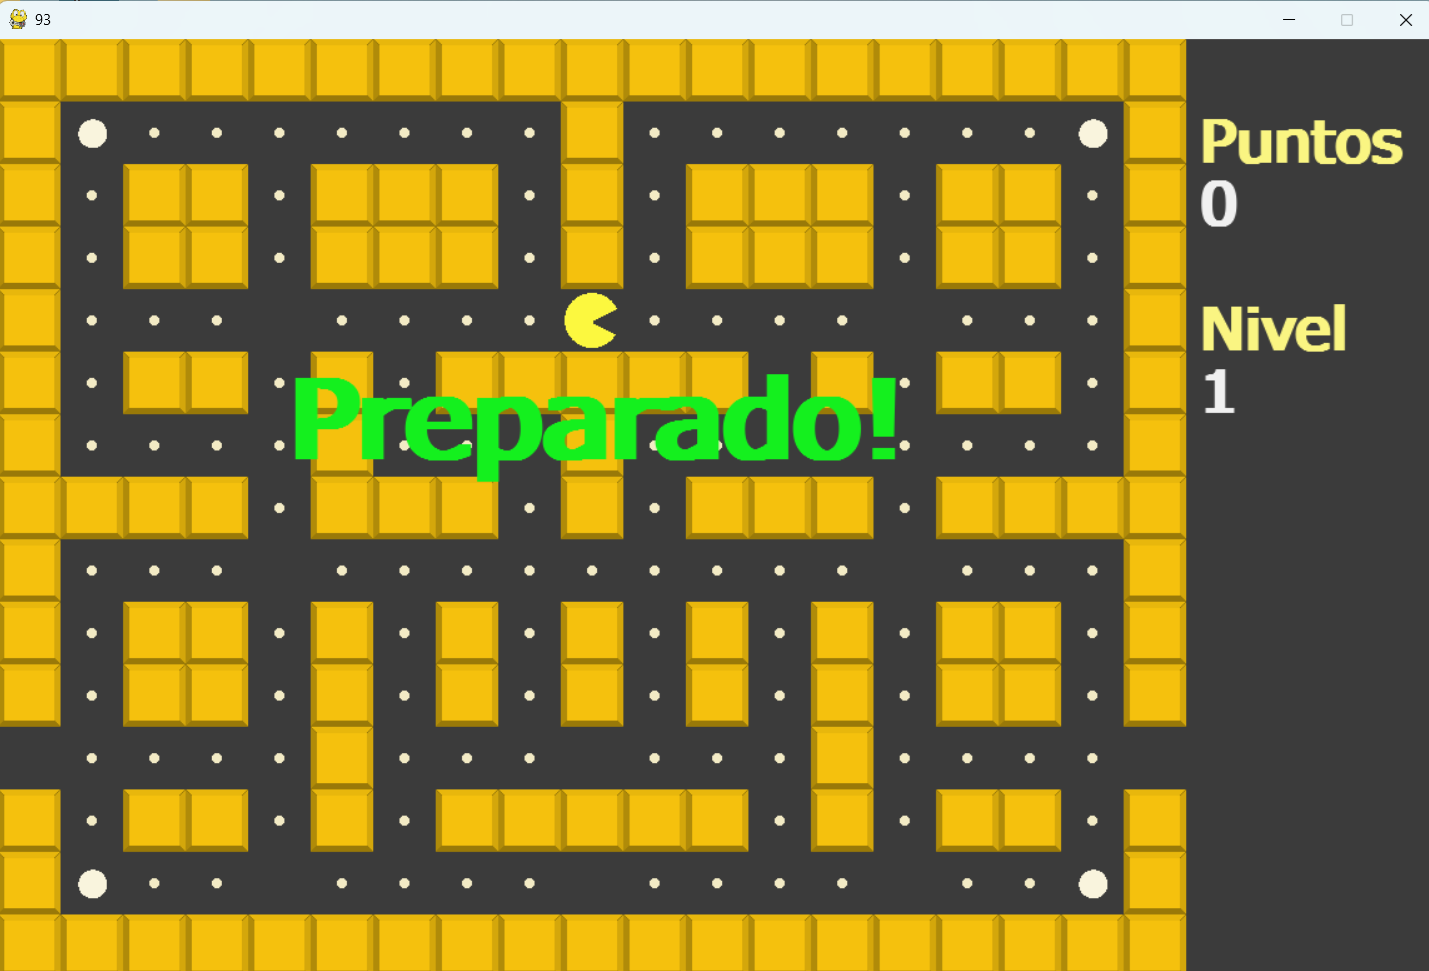
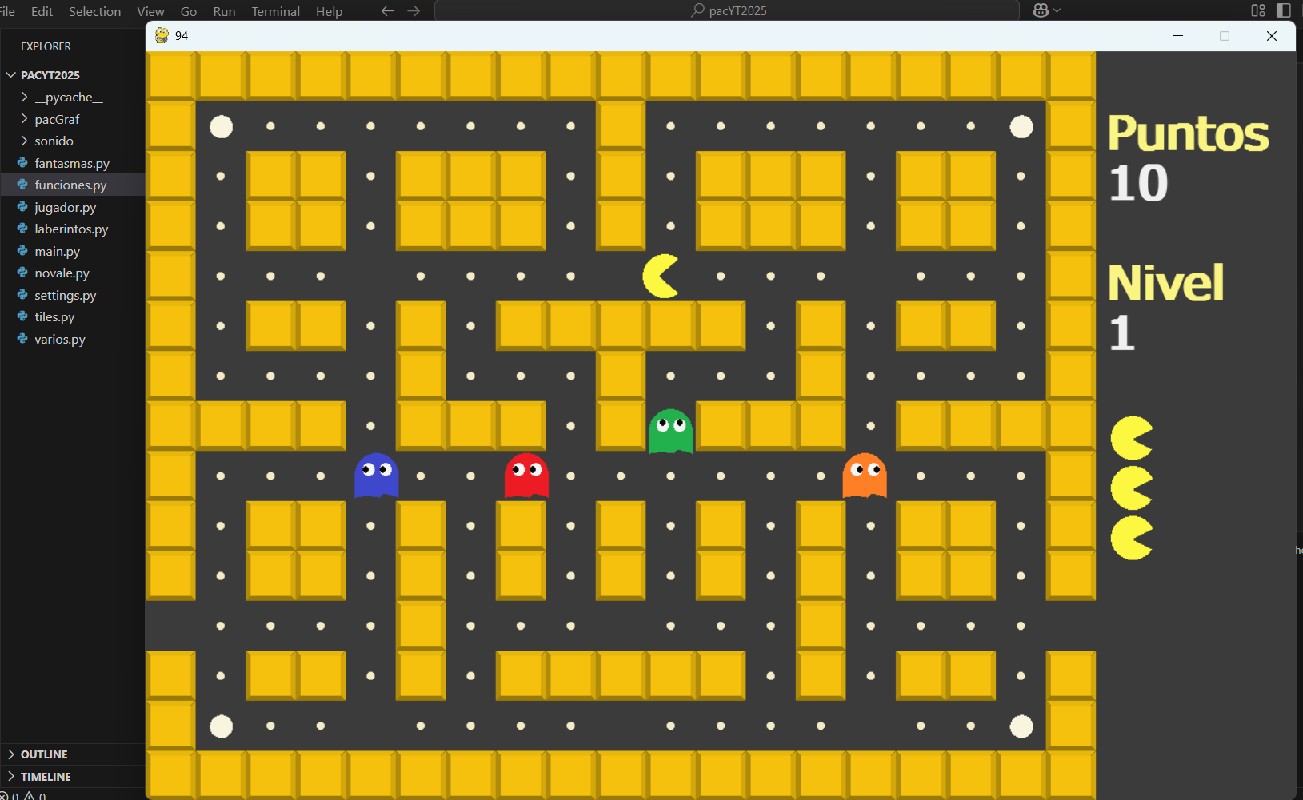
agregado show-bonus y mecanica temporizador fantasmas-azules

diff --git a/funciones.py b/funciones.py
@@ -47,7 +47,6 @@ def instanciar_fantasmas(self):
 
 def instanciar_fantasma(self, coorX, coorY, i, direc, azul, ojos):
     fantasma = Fantasma(self, coorX, coorY, i, direc, azul, ojos)
-    #self.lista_sprites_adibujar.add(fantasma)
     self.listas_sprites["fantasmas"].add(fantasma)
 
 def instanciar_fruta(self):
@@ -62,11 +61,21 @@ def instanciar_fruta(self):
         self.listas_sprites["all_sprites"].add(newFruta)
         self.listas_sprites["items"].add(newFruta)
 
+def check_showbonus_kill(self):
+    if len(self.listas_sprites["items"]) != 0 or not self.estado_juego["en_juego"]:
+        return
+    
+    calculo = pygame.time.get_ticks()
+    if calculo - self.ultimo_update["show-bonus-fruta"] > self.CO.DURACION_SHOW_BONUS_FRUTA:
+        self.ultimo_update["show-bonus-fruta"] = calculo
+        #print("3sg")
+        eliminar_elemento_de_lista(self, "textos", "show-bonus-fruta")
+
 def instanciar_textos(self):
     MARGEN = 9
 
     self.instanciar_texto(self.CO.TXT_PREPARADO, 90, (self.CO.RESOLUCION[0] - self.CO.ZONA_SCORES) // 2,
-        300, self.COL.VERDE_FONDO, fondo=self.COL.BG_GRIS_OSCURO, negrita=True)
+        300, self.COL.VERDE_FONDO, fondo=self.COL.BG_GRIS_OSCURO, negrita=True, tipo="txt-preparado")
     
     self.instanciar_texto("Puntos", 48, self.CO.RESOLUCION[0] - self.CO.ZONA_SCORES + MARGEN,
         self.CO.TY, self.COL.AMARILLENTO, negrita=True, centrado=False)
@@ -79,8 +88,9 @@ def instanciar_textos(self):
 
 def updates_segun_estado(self):
     """Updates condicionales (presentacion/preparado/en_juego...)"""
-    #self.checkTemporizadorAzules()
-    #self.checkNivelSuperado()
+
+    check_temporizador_azules(self)
+    checkNivelSuperado(self)
     self.instanciar_fruta_periodicamente()
 
     if self.estado_juego["menu_presentacion"]:
@@ -93,10 +103,7 @@ def updates_segun_estado(self):
             self.resetear_estados_juego()
             self.estado_juego["preparado"] = False
             self.estado_juego["en_juego"] = True
-            for sprite in self.listas_sprites["textos"]:
-                if isinstance(sprite, Textos) and sprite.texto == self.CO.TXT_PREPARADO:
-                    self.listas_sprites["textos"].remove(sprite)
-                    break
+            eliminar_elemento_de_lista(self, "textos", "txt-preparado")
     
     else:
         self.listas_sprites["all_sprites"].update()
@@ -105,6 +112,22 @@ def updates_segun_estado(self):
         self.listas_sprites["textos"].update()
     
     #self.checkTransicion_gameOverRejugar()
+
+def check_temporizador_azules(self):
+    calculo = pygame.time.get_ticks()
+    if self.temporizadorAzules and calculo - self.ultimo_update["azules"] > self.CO.DURACION_AZULES[self.nivel]:
+        self.ultimo_update["azules"] = calculo
+        print("tiempo-azules-agotado")
+        self.temporizadorAzules = False
+
+        for fantasma in self.listas_sprites["fantasmas"]:
+            fantasma.kill()
+            x, y = int(fantasma.rect.x / self.CO.TX), int(fantasma.rect.y / self.CO.TY)
+            self.instanciar_fantasma(x, y, fantasma.id_fantasma, fantasma.direccion, azul=False, ojos=False)
+
+def checkNivelSuperado(self):
+    if len(self.listas_sprites["puntitos"]) <= 0:
+        print("nivel superado")
 
 def draw_listas_sprites(self):
     """Renderizar las listas-sprites"""
@@ -116,9 +139,6 @@ def draw_listas_sprites(self):
     pygame.draw.rect(self.pantalla, self.COL.GRIS_FONDO, 
         (self.CO.COLUMNAS * self.CO.TX, 11 * self.CO.TY, self.CO.TX, self.CO.TY))
     
-    #self.renderizar_vidasMarcador()
-    
-    #self.listas_sprites["bonus_come_fantasmas"].draw(self.pantalla)
     self.listas_sprites["textos"].draw(self.pantalla)
 
 def eventos_comenzar_quit_etc(self):
@@ -140,10 +160,16 @@ def eventos_comenzar_quit_etc(self):
                 self.estado_juego["en_juego"] = True
                 self.ultimo_update["preparado"] = pygame.time.get_ticks()
                 self.sonidos.reproducir("inicio_nivel")
-                # Comenzar partida (Pulsando ENTER) *********************************
+                # ************** Comenzar partida (Pulsando ENTER) ***********************
                 self.new_game()
             
             if event.key == pygame.K_TAB:
                 for clave in self.estado_juego:
                     print(clave, self.estado_juego[clave])
+
+def eliminar_elemento_de_lista(self, lista, elemento):
+    for sprite in self.listas_sprites[lista]:
+        if isinstance(sprite, Textos) and sprite.tipo == elemento:
+            self.listas_sprites["textos"].remove(sprite)
+            break
 

diff --git a/fantasmas.py b/fantasmas.py
@@ -61,13 +61,17 @@ class Fantasma(pygame.sprite.Sprite):
     def generar_direcciones(self):
         """Generar las direcciones y configuraciones."""
 
+        # Animacion-base (cuando estan azules/ojos hay menos graficos):
         anim_base = [0, 2, 4, 6] if self.azul or self.ojos else [0, 8, 16, 24]
+        
+        # Cuando estan azules/ojos hay menos graficos (no importa el color), entonces multiplicar=0
+        multiplicar = 0 if self.azul or self.ojos else 2
 
         return {
-            Direccion.RIGHT.value: [1, 0, anim_base[0] + self.id_fantasma * 2, "updole"],
-            Direccion.LEFT.value: [-1, 0, anim_base[1] + self.id_fantasma * 2, "updori"],
-            Direccion.UP.value: [0, -1, anim_base[2] + self.id_fantasma * 2, "riledo"],
-            Direccion.DOWN.value: [0, 1, anim_base[3] + self.id_fantasma * 2, "rileup"]
+            Direccion.RIGHT.value: [1, 0, anim_base[0] + self.id_fantasma * multiplicar, "updole"],
+            Direccion.LEFT.value: [-1, 0, anim_base[1] + self.id_fantasma * multiplicar, "updori"],
+            Direccion.UP.value: [0, -1, anim_base[2] + self.id_fantasma * multiplicar, "riledo"],
+            Direccion.DOWN.value: [0, 1, anim_base[3] + self.id_fantasma * multiplicar, "rileup"]
         }
 
     def procesar_puntos_clave(self, puntos_crudos):
@@ -78,9 +82,9 @@ class Fantasma(pygame.sprite.Sprite):
         """Cargar imágenes según el estado del fantasma."""
 
         if self.ojos:
-            return [self.game.obtenerGrafico(f"fantasma{i + 51}.png", 1)[0] for i in range(8)]
+            return [self.game.obtener_grafico(f"fantasma{i + 51}.png", 1)[0] for i in range(8)]
         elif self.azul:
-            return [self.game.obtenerGrafico(f"fantasmaAzul{i + 1}.png", 1)[0] for i in range(8)]
+            return [self.game.obtener_grafico(f"fantasmaAzul{i + 1}.png", 1)[0] for i in range(8)]
         else:
             return [
                 self.game.obtener_grafico(f"fantasma{i + 1}.png", 1)[0]
@@ -158,8 +162,8 @@ class Fantasma(pygame.sprite.Sprite):
             base = self.dic_direccion[self.direccion][2]
             self.image = self.lista_imagenes[base + self.indice_animacion]
 
-            if self.azul:
-                self.image.set_alpha(100 if self.game.obtenerDuracionAzules() > 0 else 255)
+            """ if self.azul:
+                self.image.set_alpha(100 if self.game.obtenerDuracionAzules() > 0 else 255) """
 
     def verificar_colision_pacman(self):
         """Verificar colisiones con PacMan."""
@@ -187,7 +191,7 @@ class Fantasma(pygame.sprite.Sprite):
         coor_y = self.rect.y // self.game.CO.TY
         self.game.sumaPtosComeFantasmas *= 2
         self.game.puntos += self.game.sumaPtosComeFantasmas
-        self.game.instanciaPtosComeFantasmas(self.game.sumaPtosComeFantasmas, coor_x, coor_y)
+        #self.game.instanciaPtosComeFantasmas(self.game.sumaPtosComeFantasmas, coor_x, coor_y)
         self.game.instanciar_fantasma(coor_x, coor_y, self.id_fantasma, self.direccion, False, True)
 
     def manejar_colision_atrapa_pacman(self, impacto):

diff --git a/varios.py b/varios.py
@@ -79,15 +79,15 @@ class PuntosGordos(pygame.sprite.Sprite):
         # Colisión con PacMan
         if pygame.sprite.spritecollide(self, self.game.listas_sprites["pacman"], False) and not self.game.temporizadorAzules:
             self.kill()
-            #self.game.temporizadorAzules = True
-            #self.game.ultimoUpdate_azules = pygame.time.get_ticks()
-
-            """ for fantasma in self.game.lista_los4fantasmas:
-                x, y = int(fantasma.rect.x / self.game.TX), int(fantasma.rect.y / self.game.TY)
-                self.game.instanciar_fantasma(x, y, fantasma.idFantasma, fantasma.direccion, azul=True, ojos=False)
-                fantasma.kill() """
-
             self.game.sonidos.reproducir("eating_ghost")
+
+            self.game.temporizadorAzules = True
+            self.game.ultimo_update["azules"] = pygame.time.get_ticks()
+
+            for fantasma in self.game.listas_sprites["fantasmas"]:
+                fantasma.kill()
+                x, y = int(fantasma.rect.x / self.game.CO.TX), int(fantasma.rect.y / self.game.CO.TY)
+                self.game.instanciar_fantasma(x, y, fantasma.id_fantasma, fantasma.direccion, azul=True, ojos=False)
 
 class Textos(pygame.sprite.Sprite):
     def __init__(self, game, texto, size, x, y, color, fondo=None, negrita=False, centrado=True, tipo=None):
@@ -116,6 +116,8 @@ class Textos(pygame.sprite.Sprite):
             self.image = self.font.render(f'{self.game.puntos}', True, self.color, self.fondo)
         if self.tipo == "dinamico-nivel":
             self.image = self.font.render(f'{self.game.nivel}', True, self.color, self.fondo)
+        if self.tipo == "show-bonus-fruta":
+            self.rect.y -= 1
 
 class ItemFrutas(pygame.sprite.Sprite):
     X, Y = 9, 11
@@ -132,9 +134,13 @@ class ItemFrutas(pygame.sprite.Sprite):
     def update(self):
         if pygame.sprite.spritecollide(self, self.game.listas_sprites["pacman"], False):
             self.kill()
+            self.game.sonidos.reproducir("eating_cherry")
             puntos_fruta = (self.game.nivel * 10) ** 2
             self.game.puntos += puntos_fruta
             self.game.ultimo_update["item-fruta"] = pygame.time.get_ticks()
-            #self.game.instanciaPtosComeFantasmas(puntos_fruta, self.x, self.y)
-            self.game.sonidos.reproducir("eating_cherry")
+            
+            self.game.instanciar_texto(str(puntos_fruta), 48, self.rect.x, self.rect.y, self.game.COL.ROJO, centrado=False, 
+                negrita=True, tipo="show-bonus-fruta")
+            
+            self.game.ultimo_update["show-bonus-fruta"] = pygame.time.get_ticks()
 

diff --git a/main.py b/main.py
@@ -32,7 +32,8 @@ class Game:
         self.ultimo_update = {
             "azules": pygame.time.get_ticks(),
             "preparado": pygame.time.get_ticks(),
-            "item-fruta": pygame.time.get_ticks()
+            "item-fruta": pygame.time.get_ticks(),
+            "show-bonus-fruta": pygame.time.get_ticks()
         }
 
         # True= Se ejecuta el bucle Principal | False= no se ejecuta
@@ -119,6 +120,10 @@ class Game:
         instanciar_showvidas(self)
         instanciar_fantasmas(self)
     
+    def instanciar_fantasma(self, coorX, coorY, i, direc, azul, ojos):
+        fantasma = Fantasma(self, coorX, coorY, i, direc, azul, ojos)
+        self.listas_sprites["fantasmas"].add(fantasma)
+    
     def instanciar_pacman_dies(self, x, y):
         pacman_dies = PacManDies(self, x, y)
         self.listas_sprites["all_sprites"].add(pacman_dies)
@@ -126,6 +131,7 @@ class Game:
     def instanciar_fruta_periodicamente(self):
         """Instanciar/re-instanciar Item-Fruta periodicamente..."""
         instanciar_fruta(self)
+        check_showbonus_kill(self)
     
     def instanciar_textos_iniciales(self):
         """Instanciar textos marcadores, Preparado..."""

diff --git a/novale.py b/novale.py
@@ -1,6 +1,23 @@
-# presentacion 'pac Clon' modificar el IF del update()
+# Instanciar show-bonus-fruta
+
+# Temporizador show-bonus-fruta
+
+# checkNivelSuperado()
+
+# activar fantasmas-azules:
+    # PuntosGordos
+    # Duplicar instancia_fantasma (main)
+    # Modificar generar_direcciones (agregar variable multiplicar)
+
+# check_temporizador_azules
+
+# ===============================================================
 
 # que no se instancien mas fantasmas
+
+# presentacion 'pac Clon' modificar el IF del update()
+
+# Intanciar texto Pac Clon en game __init__
 
 # radius (pacman y fantasmas) reducir colision
 
@@ -8,6 +25,6 @@
 
 # instanciar for i in range(self.vidas):
 
-# gameover (de momento en consola)
+# gameover de momento en consola (kill() al final de PacManDies)
 
 # escapatoria fantasmas

diff --git a/settings.py b/settings.py
@@ -19,13 +19,15 @@ class Constantes:
     TX, TY = 50, 50 # Tamano de los Tiles
     FILAS, COLUMNAS = 15, 19 # Filas x Columnas
     PACMAN_INI_POS = (9, 4)
-    VIDAS_COOR_X = COLUMNAS + 1 # CoorX showvidas
+    VIDAS_COOR_X = COLUMNAS # CoorX showvidas
     VIDAS_COOR_Y = 7 # CoorY Inicial showvidas
     INVULNERABLE = False
     N_FANTASMAS = 4
-    DURACION_AZULES = 8000 # Duracion de los 'fantasmas-azules' en el nivel 1
+    # Duracion de los 'fantasmas-azules' en el nivel 1
+    DURACION_AZULES = [8000, 8000, 7000, 6000, 5500, 5000, 4700, 4500, 4250, 4000, 3750, 3500, 3000, 2750, 2500]
     DURACION_PREPARADO = 4200
     INTERVALO_FRUTA = 12000
+    DURACION_SHOW_BONUS_FRUTA = 2900
     TXT_TITULO = " Pac Clon "
     TXT_PREPARADO = " Preparado! "
     ZONA_SCORES = 200

diff --git a/jugador.py b/jugador.py
@@ -172,6 +172,8 @@ class PacManDies(pygame.sprite.Sprite):
             self.game.instanciar_objetos()
 
 class PacmanShowVidas(pygame.sprite.Sprite):
+    MARGEN = 12
+
     def __init__(self, game, x, y):
         super().__init__()
         self.game = game
@@ -179,8 +181,8 @@ class PacmanShowVidas(pygame.sprite.Sprite):
         self.image = self.game.obtener_grafico("pacman1.png", 1)[0]
         
         self.rect = self.image.get_rect()
-        self.rect.x = x * self.game.CO.TX
-        self.rect.y = y * self.game.CO.TY
+        self.rect.x = (x * self.game.CO.TX) + PacmanShowVidas.MARGEN
+        self.rect.y = (y * self.game.CO.TY) + PacmanShowVidas.MARGEN
     
     def update(self):
         pass
